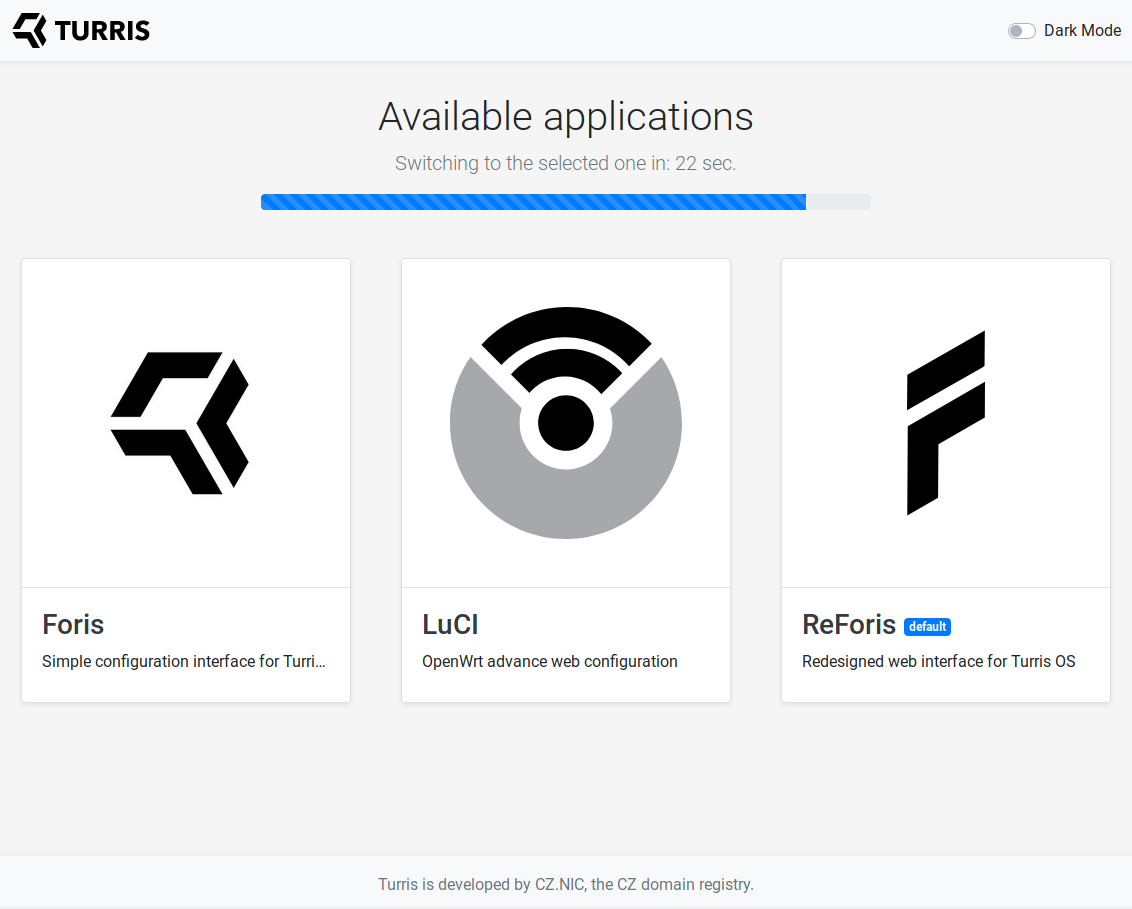
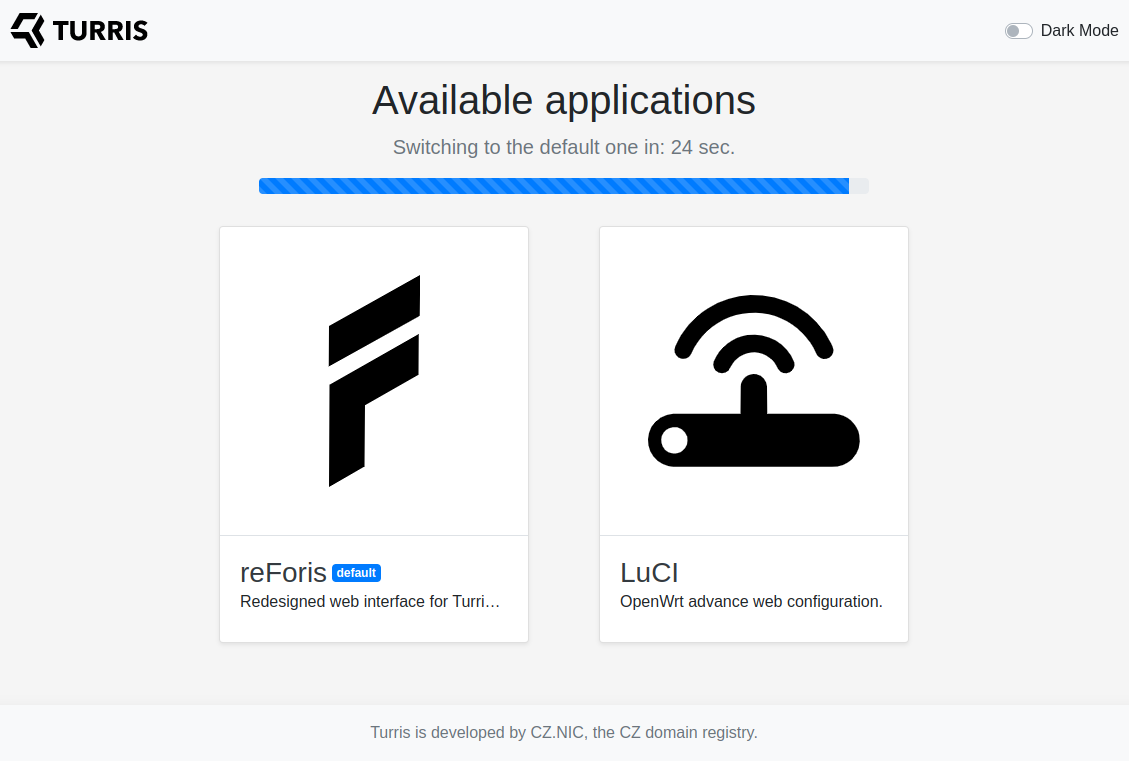
basics: Remove Foris from landing page

diff --git a/docs/basics/landing-page.md b/docs/basics/landing-page.md
@@ -17,11 +17,10 @@ until the time limit expires and the default application is opened
 automatically.
 
 !!! info
-    In Turris OS 5.2, the default application is reForis.
+    Since Turris OS 5.2, the default application is reForis.
 
-There are currently three applications always present:
+There are currently two applications always present:
 
-* Foris – the legacy simple configuration interface
 * [reForis](reforis/intro.md) – the redesigned simple configuration interface
 * [LuCI](luci/luci.md) – the OpenWrt advanced configuration interface
 
